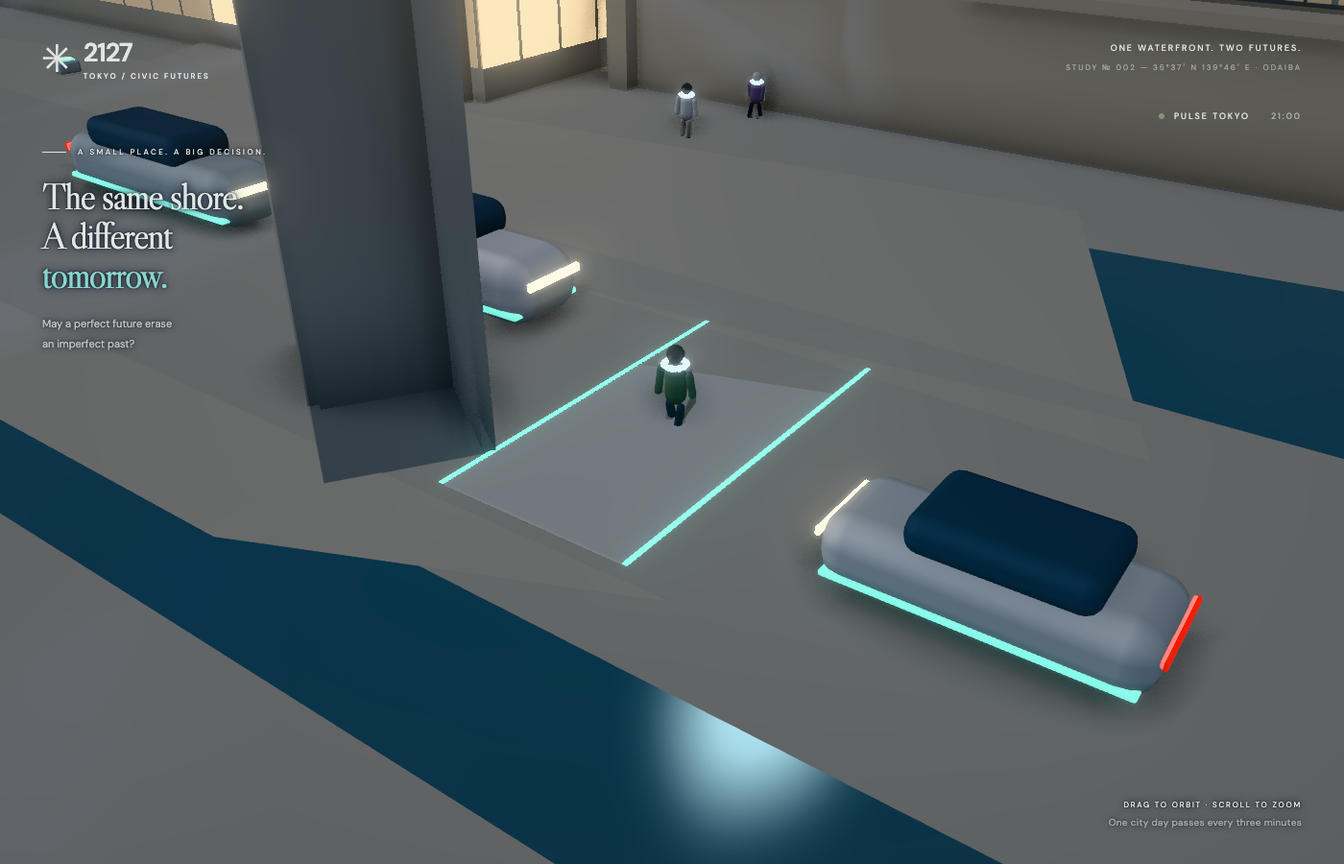
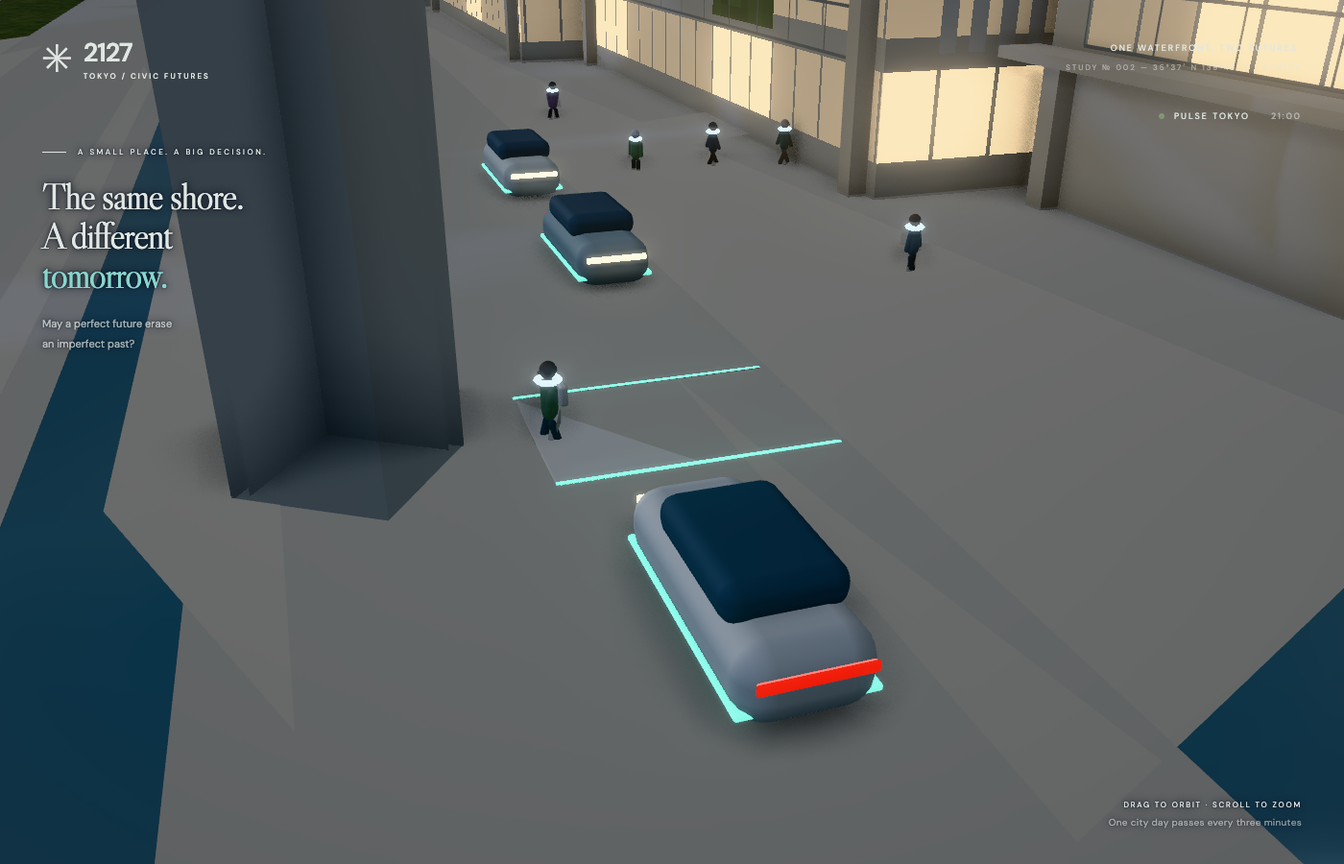
fix(mobility): move street lanes clear of guideway piers and Hilton
- Widen the guideway avenue's carriageway 1.6 m onto the paving slab
  and shift both lanes left, so the Yurikamome piers standing in the
  right half of the surveyed road stay clear of every car.
- End the guideway avenue before Hilton's chapel and podium, which
  cross the whole road; keep drop-off bays at their road positions.
- Ease seaside-avenue lanes 0.25 m away from Aqua City's wall.
- Test every lane's car body against the real city geometry.

diff --git a/src/mobility.ts b/src/mobility.ts
@@ -292,10 +292,14 @@ export const entranceJourneys=()=>entranceTrips;
 /** Published door-to-group journeys, for route/actor clearance checks. */
 export const forecourtVisits=()=>doorSpots.flatMap((spot,group)=>spot.visit?[{...spot.visit,group,at:spot.at,yaw:spot.yaw}]:[]);
 const PAVED=new Set(['sidewalk','plaza']);
-// Landmark pads overlap the avenues in places (Aqua City's north side), so forecourt walks also keep clear of every carriageway.
+// Landmark pads overlap the avenues in places (Aqua City's north side), so forecourt walks also keep 1.5 m clear of every carriageway
+// (`CARRIAGEWAY`) and of the surveyed road (the guideway avenue's pier strip included).
 let streetSamples:{p:T.Vector3;clear:number}[]|null=null;
-const offStreet=(p:T.Vector3)=>(streetSamples??=routes().streets.flatMap((c,r)=>c.getSpacedPoints(400).map(q=>({p:q,clear:r?5:4}))))
-  .every(s=>Math.hypot(s.p.x-p.x,s.p.z-p.z)>s.clear);
+const offStreet=(p:T.Vector3)=>(streetSamples??=routes().streets.flatMap((c,r)=>{
+  const {centre,half}=CARRIAGEWAY[r];
+  return [[0,ROAD_HALF[r]+1.5],[centre,half+1.5]].flatMap(([n,clear])=>c.getSpacedPoints(400).map((q,i,all)=>{
+    const t=all[Math.min(i+1,all.length-1)].clone().sub(all[Math.max(i-1,0)]).normalize();return {p:q.clone().add(new T.Vector3(t.z*n,0,-t.x*n)),clear};}));
+})).every(s=>Math.hypot(s.p.x-p.x,s.p.z-p.z)>s.clear);
 /** Finds ground-floor facade points by casting inward from all four sides of `model`'s bounds, and joins neighbouring doors on one face
  * with a short walk 4–10 m out across the paved pad (`ground`: the environment). Each walk is raycast clear of the building, and runs
  * from .6 m inside one door to .6 m inside the next, rounded at its corners, so people emerge from the facade rather than grow out of
@@ -429,7 +433,7 @@ export function streetCarPose(time:number,road:number,lane:number,car:number,car
  * `mobility` it also waits there until the lane beside the pull-out is clear). Cues: `signal` +1 indicates toward the kerb from SIGNAL m before easing in until it stops, -1 toward
  * the road from 3 s before pulling away until back in lane; `brake` lights while braking; `pitch` (rad, + nose down) dips the nose
  * under braking and lifts it pulling away. */
-export const DROP_OFF={road:1,lane:1,cars:[0,14],stops:[330,380],bay:3.5} as const;
+export const DROP_OFF={road:1,lane:1,cars:[0,14],stops:[223,273],bay:2.3} as const;
 const BRAKE=12,SHIFT=35,SIGNAL=30;
 export function dropOffPose(time:number,car:number,cars:number,length:number,stop:number) {
   return dropOffAt(laneTravel(time,DROP_OFF.road,DROP_OFF.lane,car,cars,length),length,stop);
@@ -455,17 +459,26 @@ function dropOffAt({x,lap,speed,span}:{x:number;lap:number;speed:number;span:num
  * behind each other (`mobility`). Both on the guideway avenue, where paving on each side is open 12 m out at body height (under the
  * guideway): south of Aqua City past the drop-off bays, and just before the junction mouth. The seaside avenue has no north footway (Aqua
  * City's wall stands 2.3 m from its centre line). */
-export const CROSSINGS=[{road:1,d:282,period:70},{road:1,d:480,period:83}] as const;
-/** Carriageway half-width per avenue (5 m and 7 m). */
+export const CROSSINGS=[{road:1,d:286,period:70},{road:1,d:480,period:83}] as const;
+/** Surveyed road half-width per avenue (5 m and 7 m). */
 export const ROAD_HALF=[2.5,3.5] as const;
+/** Where cars drive, in metres left of each avenue's route (`n`, up × tangent): the seaside avenue's lanes sit 0.25 m off centre in
+ * its 5 m road, away from Aqua City's wall (2.3 m right of the centre line); under the guideway the Yurikamome piers stand in the
+ * right half of the 7 m road about every 50 m, so its carriageway is widened 1.6 m to the left onto the paving slab and shifted
+ * clear of them (−5.1 … −0.5 m; piers reach 0.36 m left of the centre line where cars are drawn full size), the right half left to
+ * the piers. `lane`: each lane centre from the carriageway centre (Japan keeps
+ * left); car bodies keep ≥ 0.3 m from every solid (tests/odaiba.test.ts). */
+export const CARRIAGEWAY=[{centre:.25,half:2.25,lane:1.25},{centre:-2.8,half:2.3,lane:1.15}] as const;
+/** A lane's centre, metres along its own left (`up × travel direction`): lane 0 travels with the route, lane 1 against it. */
+export const laneOffset=(road:number,lane:number)=>{const {centre,lane:l}=CARRIAGEWAY[road];return lane?l-centre:centre+l;};
 /** The guideway avenue's junction mouth has no road surface in the environment (terrain shows between d 492 and 501): a strip of
  * the paving finish that covers the other avenues fills it (`loadOdaiba`). Left/right edge points (x, z) every metre, for the scene mesh and the road test. */
-export const ROAD_FILL={road:1,from:486,to:507,half:3.7} as const;
+export const ROAD_FILL={road:1,from:486,to:507,left:5.2,right:3.7} as const;
 export function roadFill() {
   const street=routes().streets[ROAD_FILL.road],length=street.getLength(),edges:[number,number][][]=[];
   for(let d=ROAD_FILL.from;d<=ROAD_FILL.to;d++){
     const p=street.getPointAt(d/length),t=street.getTangentAt(d/length);
-    edges.push([-1,1].map(s=>[p.x+t.z*s*ROAD_FILL.half,p.z-t.x*s*ROAD_FILL.half] as [number,number]));
+    edges.push([-ROAD_FILL.left,ROAD_FILL.right].map(n=>[p.x+t.z*n,p.z-t.x*n] as [number,number]));
   }
   return edges;
 }
@@ -664,9 +677,11 @@ export function mobility(scene:T.Scene) {
     }
   });benchFleet.flush();stools.flush();
   const crossAt=CROSSINGS.map(({road,d},k)=>{
-    place(path.streets[road],d/streetLength[road]);const half=ROAD_HALF[road];
+    place(path.streets[road],d/streetLength[road]);const {centre,half}=CARRIAGEWAY[road];
+    // `p`: the carriageway's centre at the crossing.
+    pose.position.add(new T.Vector3(tangent.z*centre,0,-tangent.x*centre));
     pose.scale.set(2*half+.6,1,1);crossBands.set(k,pose);pose.scale.set(1,1,1);
-    return {p:pose.position.clone(),t:tangent.clone(),half,kerb:half+.7,yaw:pose.rotation.y};
+    return {p:pose.position.clone(),t:tangent.clone(),half,kerb:half+.5,yaw:pose.rotation.y};
   });crossBands.flush();
   const stops=promenadeStops(walkLength.slice(0,2));
   const resting=pedestrians(scene,spots.length+FORECOURT_GROUPS*3,'resting-people');
@@ -944,7 +959,7 @@ export function mobility(scene:T.Scene) {
       const span=streetLength[r]+40,at={...laneAt(carT[slot],span),speed:8+3*hash(r*2+lane,14),span};
       const car=drop<0?{d:lane?streetLength[r]-at.x:at.x,visible:fadeEnds(at.x,streetLength[r]),bay:0,steer:0}:dropOffAt(at,streetLength[r],DROP_OFF.stops[drop]);
       place(path.streets[r],car.d/streetLength[r],lane===1);side.crossVectors(up,tangent).normalize();
-      pose.position.addScaledVector(side,(r?1.75:1.25)+car.bay*DROP_OFF.bay).y+=.1;pose.rotation.y+=car.steer;if(drop>=0)pose.rotation.x=(car as ReturnType<typeof dropOffPose>).pitch;
+      pose.position.addScaledVector(side,laneOffset(r,lane)+car.bay*DROP_OFF.bay).y+=.1;pose.rotation.y+=car.steer;if(drop>=0)pose.rotation.x=(car as ReturnType<typeof dropOffPose>).pitch;
       // Every seventh car is a 7 m van; traffic density and the commute rhythm thin the fleet (drop-off cars always run).
       // Human-driven cars give way to autonomous pods slot by slot as automation rises; standalone keeps the cars.
       const van=vanOf[slot]===1,density=drop<0?carGate(slot,state.traffic*.6+.5>hash(slot,18)&&rhythm.cars>hash(slot,22)):1;

diff --git a/tests/mobility.test.ts b/tests/mobility.test.ts
@@ -3,7 +3,7 @@ import { readFileSync } from 'node:fs';
 import { routes, podPose, boatPoses, HULL, WATER_PERIOD, BOATS as BOAT_COUNT, trainPose, TRAIN_SPEED, walkerPose, walkerRoute, walkerParty, doorwayPose, robotPose, collectorPose, ROBOT_HALT, HANDOFF, promenadeStops, RAIL_OUT, STOOL_FRONT, streetCarPose, STREET_GAP, dropOffPose, DROP_OFF, streetRhythm, promenadeBenches, BENCH_OUT, transferPose, dockMotion, guideStrength, aircraftSlot, podShare, automationActivity, CARS, CAR_GAP, TRAINS, WALKERS, TRANSFERS, PLATOON } from '../src/mobility.ts';
 import { changeSites, SPHERE_DOCK, INTERCHANGE } from '../src/layout.ts';
 import { laneBeaconSites } from '../src/waterRooms.ts';
-import { conversationPose, visitPose, entrancePose, servicePose, mobility, roadFill, CROSSINGS, ROAD_HALF } from '../src/mobility.ts';
+import { conversationPose, visitPose, entrancePose, servicePose, mobility, roadFill, CROSSINGS, CARRIAGEWAY, laneOffset } from '../src/mobility.ts';
 import * as T from 'three';
 import { presets } from '../src/presets.ts';
 
@@ -125,17 +125,19 @@ const inside = (tris: number[][], x: number, z: number) => tris.some(([ax, az, b
   const d1 = s(ax, az, bx, bz), d2 = s(bx, bz, cx, cz), d3 = s(cx, cz, ax, az);
   return !((d1 < 0 || d2 < 0 || d3 < 0) && (d1 > 0 || d2 > 0 || d3 > 0));
 });
-// The junction-mouth fill (scene strip of road material) closes the guideway avenue's only gap.
+// The junction-mouth fill (scene strip of the paving finish) closes the guideway avenue's only gap.
 const fill = roadFill();
 for (let i = 1; i < fill.length; i++) { const [[ax, az], [bx, bz]] = fill[i - 1], [[cx, cz], [dx, dz]] = fill[i]; roadTris.push([ax, az, cx, cz, bx, bz], [bx, bz, cx, cz, dx, dz]); }
 const onRoad = (x: number, z: number) => inside(roadTris, x, z);
+// Drivable: the surveyed road, or the paving slab the guideway avenue's carriageway is widened onto (no lawn, water or terrain).
+const drivable = (x: number, z: number) => onRoad(x, z) || inside(pavedTris, x, z);
 path.streets.forEach((street, r) => {
-  const length = street.getLength(), offset = r ? 1.75 : 1.25, cars = Math.round((length + 40) / STREET_GAP);
+  const length = street.getLength(), cars = Math.round((length + 40) / STREET_GAP);
   let missing = 0, samples = 0;
-  for (let d = 0; d <= length; d += 2) for (const side of [-1, 1]) {
-    const p = street.getPointAt(d / length), t = street.getTangentAt(d / length);
+  for (let d = 0; d <= length; d += 2) for (const lane of [0, 1]) {
+    const p = street.getPointAt(d / length), t = street.getTangentAt(d / length), n = lane ? -laneOffset(r, 1) : laneOffset(r, 0);
     // Both car edges (0.95 m either side of the lane centre).
-    for (const edge of [-.95, .95]) { samples++; if (!onRoad(p.x + t.z * side * (offset + edge), p.z - t.x * side * (offset + edge))) missing++; }
+    for (const edge of [-.95, .95]) { samples++; if (!drivable(p.x + t.z * (n + edge), p.z - t.x * (n + edge))) missing++; }
   }
   assert.equal(missing, 0, `street ${r}: ${missing}/${samples} car-edge samples off the road`);
   for (const lane of [0, 1]) for (let t = 0; t < 300; t += .5) {
@@ -158,7 +160,7 @@ path.streets.forEach((street, r) => {
       if (a.parked >= 0) {
         parkedSeen++;
         assert.ok(a.leaving >= 0 && (b.parked < 0 || Math.abs(a.d - b.d) < 1e-6), 'parked car moves');
-        const p = street.getPointAt(a.d / length), tan = street.getTangentAt(a.d / length).negate(), off = 1.75 + DROP_OFF.bay;
+        const p = street.getPointAt(a.d / length), tan = street.getTangentAt(a.d / length).negate(), off = laneOffset(DROP_OFF.road, DROP_OFF.lane) + DROP_OFF.bay;
         for (const [along, across] of [[-2.3, -.95], [-2.3, .95], [2.3, -.95], [2.3, .95], [0, 0]]) {
           const x = p.x + tan.z * (off + across) + tan.x * along, z = p.z - tan.x * (off + across) + tan.z * along;
           assert.ok(inside(pavedTris, x, z) && !onRoad(x, z), `drop-off bay ${k} corner off the paving at ${x.toFixed(0)}, ${z.toFixed(0)}`);
@@ -316,13 +318,13 @@ for (let ports = 0; ports <= 6; ports++) {
 assert.ok(guideStrength(.01, .99, true) > .9);
 assert.equal(guideStrength(.01, .99, false), 0);
 assert.equal(guideStrength(.5, 0, true), 0);
-// Crossings: the carriageway under the band is road; the kerbs and both footways walked 8 m up and down the avenue are paving.
+// Crossings: the carriageway under the band is drivable; the kerbs and both footways walked 8 m up and down the avenue are paving.
 for (const { road, d } of CROSSINGS) {
-  const street = path.streets[road], length = street.getLength(), half = ROAD_HALF[road];
-  const at = (along: number, a: number) => { const p = street.getPointAt((d + along) / length), t = street.getTangentAt((d + along) / length); return [p.x + t.z * a, p.z - t.x * a] as const; };
-  for (const along of [-.7, 0, .7]) for (let a = -half - .7; a <= half + .7; a += .25)
-    assert.ok(Math.abs(a) < half - .3 ? onRoad(...at(along, a)) : Math.abs(a) > half + .3 ? inside(pavedTris, ...at(along, a)) : true, `crossing ${road}/${d} off its surface at ${a}`);
-  for (let along = -8.7; along <= 8.7; along += .5) for (const a of [-half - .7, half + .7]) assert.ok(inside(pavedTris, ...at(along, a)), `crossing ${road}/${d} footway off the paving at ${along}`);
+  const street = path.streets[road], length = street.getLength(), { centre, half } = CARRIAGEWAY[road];
+  const at = (along: number, a: number) => { const p = street.getPointAt((d + along) / length), t = street.getTangentAt((d + along) / length); return [p.x + t.z * (centre + a), p.z - t.x * (centre + a)] as const; };
+  for (const along of [-.7, 0, .7]) for (let a = -half - .5; a <= half + .5; a += .25)
+    assert.ok(Math.abs(a) < half ? drivable(...at(along, a)) : inside(pavedTris, ...at(along, a)), `crossing ${road}/${d} off its surface at ${a}`);
+  for (let along = -8.7; along <= 8.7; along += .5) for (const a of [-half - .5, half + .5]) assert.ok(inside(pavedTris, ...at(along, a)), `crossing ${road}/${d} footway off the paving at ${along}`);
 }
 // Street traffic as simulated by the real actors over 15 min at 0.1 s (evening crowd and commute): cars never close within 1.5 m in a
 // lane or exceed 15 m/s, never stand between a crossing's stop line and its far side while residents cross, actually stop and queue

diff --git a/tests/odaiba.test.ts b/tests/odaiba.test.ts
@@ -6,7 +6,7 @@ import { GLTFLoader } from 'three/addons/loaders/GLTFLoader.js';
 import { placeOdaibaModel } from '../src/odaibaPlacement.ts';
 import { changeSites, skyBridges, inDistrict, DISTRICT } from '../src/layout.ts';
 import { heroCamera } from '../src/heroCamera.ts';
-import { pavilionFlight, plazaPose, routes, mobility, publishDoorways, publishEntrances, forecourtVisits, promenadeBenches, visitPose, entranceJourneys, entrancePose } from '../src/mobility.ts';
+import { pavilionFlight, plazaPose, routes, mobility, publishDoorways, publishEntrances, forecourtVisits, promenadeBenches, visitPose, entranceJourneys, entrancePose, laneOffset } from '../src/mobility.ts';
 import { presets } from '../src/presets.ts';
 import { civicCore } from '../src/civicCore.ts';
 import { bake } from '../src/cityRig.ts';
@@ -110,6 +110,29 @@ environment.traverse(object => {
   }
 });
 assert.ok(!environment.getObjectByName('ROADSIDE_TREE_INSTANCES'), 'Hidden roadside blockout is dropped');
+// Street cars pass through nothing: every lane's car body (±0.95 m, 0.5 and 1.2 m up, scaled as drawn by the 12 m fade at each
+// avenue end) along both avenues, probed 0.3 m in four directions against the landmarks, civic core and environment (guideway
+// piers, Hilton's chapel, Aqua City's walls). Faces are hit from either side for this check only.
+{
+  const solids = [environment, ...landmarks], sides = new Map<any, number>(), ground = /^(road|road_marking|sidewalk|plaza|landscape|water|service_area)$/;
+  for (const root of solids) root.traverse(o => { if (o instanceof Mesh && !Array.isArray(o.material)) { sides.set(o.material, o.material.side); o.material.side = 2; } });
+  environment.updateMatrixWorld(true);
+  const probe = new Raycaster(), dirs = [new Vector3(1, 0, 0), new Vector3(-1, 0, 0), new Vector3(0, 0, 1), new Vector3(0, 0, -1)], hits: string[] = [];
+  routes().streets.forEach((street, r) => {
+    const length = street.getLength();
+    for (let d = 0; d <= length; d += 1) for (const lane of [0, 1]) {
+      const p = street.getPointAt(d / length), t = street.getTangentAt(d / length), n = lane ? -laneOffset(r, 1) : laneOffset(r, 0);
+      const drawn = Math.min(1, d / 12, (length - d) / 12);
+      for (const across of [-.95, -.45, 0, .45, .95]) for (const y of [.5, 1.2]) for (const dir of dirs) {
+        probe.set(new Vector3(p.x + t.z * (n + across * drawn), y * drawn, p.z - t.x * (n + across * drawn)), dir); probe.far = .3;
+        const hit = probe.intersectObjects(solids, true).find(h => !ground.test(((h.object as Mesh).material as { name: string }).name));
+        if (hit) hits.push(`${r}|${lane}|${d}|${hit.object.name}|${hit.object.parent?.name}|${hit.point.y.toFixed(1)}|${hit.distance.toFixed(2)}`);
+      }
+    }
+  });
+  for (const [material, side] of sides) material.side = side;
+  assert.deepEqual([...new Set(hits.map(h => h.split('|').slice(0, 4).join('|')))].slice(0, 5), [], 'street cars pass through solid geometry');
+}
 const backdrop = new Box3().setFromObject(environment.getObjectByName('TERRAIN_LOW_DENSITY')!);
 assert.ok(environment.getObjectByName('CTX_south_east_unknown') && environment.getObjectByName('ROAD_MAJOR') && backdrop.max.z > 1300 && backdrop.max.x > 680, 'Odaiba backdrop ground, roads and massing continue past the district');
 const panels=contextFacades(environment);

diff --git a/src/layout.ts b/src/layout.ts
@@ -31,9 +31,10 @@ export const promenades: readonly (readonly P3[])[] = [
 ];
 // Street avenues, centrelines snapped to the environment's road surfaces (tests/mobility.test.ts): the 5 m seaside avenue north of Aqua
 // City and DECKS, and the 7 m avenue under the Yurikamome guideway. Neither crosses the other, so their street cars need no signals.
+// The guideway avenue ends at (-255.6, 88.6), short of Hilton's chapel and podium, which stand across its surveyed road beyond.
 export const streets: readonly (readonly P3[])[] = [
   [[-207,0,-86.4],[-108.9,0,-151.5],[-10.8,0,-216.6],[87,0,-282.1],[168.4,0,-336.7],[217.5,0,-369.3]],
-  [[259.8,0,-256],[175.9,0,-199.5],[108.9,0,-154.3],[24.6,0,-98.4],[-59.9,0,-42.9],[-127.5,0,1.5],[-160.6,0,24],[-244,0,80.9],[-328.1,0,136.7],[-344.7,0,148.2]],
+  [[259.8,0,-256],[175.9,0,-199.5],[108.9,0,-154.3],[24.6,0,-98.4],[-59.9,0,-42.9],[-127.5,0,1.5],[-160.6,0,24],[-244,0,80.9],[-255.6,0,88.6]],
 ];
 // Top of the Fuji TV sphere (centre about -18, 107, 23; radius 22): the air-taxi berth.
 export const SPHERE_DOCK: P3 = [-18,131,23];

diff --git a/docs/PROJECT.md b/docs/PROJECT.md
@@ -72,7 +72,7 @@ Standalone uses day-cycle activity and does not create the v2 district layer. `?
 
 The district layer uses bounded preallocated slots: 17 climate bays, 11 service bays, six water rooms, ten courts, ten towers and 26 low pods, plus published roof carriers. Complementary covers preserve complete future identities; mixed composes hybrids. Cross-Meter agreement enables extra facilities. Four uint32 `slotSeeds` hash the full ordered active run history; neutral votes do not shuffle direction, and Undo excludes revoked proposals. Full-history hashing is O(guests) per view; optimize only if measured cost warrants it. Site/design footprints stay fixed while selected slot distribution can differ by history.
 
-Automation changes walkers 400/260/120, pods 12/18/24 and circulating aircraft 2/16/30 at low/mixed/high, and turns street cars into autonomous street pods (all cars / about half / all pods, with the same amount of traffic); capacities exceed visible counts. Air tiers ([layout](../src/layout.ts)): the regional district loop/sphere approach at 160–170 m, the city shore lane (closed loop offshore, inbound leg 80 m, outbound 100 m) and the service quadrotors at 30–45 m. Aircraft slots 0–9 alternate loops evenly; slots 10+ fly as wingmen 34 m behind, so platoons appear only as automation rises. Each slot is a human-led winged craft or an autonomous pod; craft switch midway between settled levels (pods about 0/15/50/85/100 % for ports 0–1/2/3/4/5–6), berth shuttles become pods above mixed. Corridors keep a faint fixed guide line; four shore-lane beacon masts (58 m) stand clear of rooms and boat routes. The shore interchange in front of Aqua City has a 56 m pier, boat head and a 38 m arrival mast with glass lift; its boat and air shuttle reuse the 40 s `dockMotion` cycle (offset 20 s) and pivot over 4 s when leaving, as does the sphere shuttle. Walkers move in parties (per six slots: one alone, a pair, a trio with a child); four of five parties walk the promenades, every fifth a mid-level/garden skyway deck. Each makes one-way trips at their own pace (0.9–1.45 m/s; a third of lone walkers jog, in the outer lane so they pass parties), followers loosely ahead or behind, fading in and out at the route ends as if entering a building, rests out of sight, and picks a fresh direction. Lanes are right of travel, so the two directions keep to their own sides; parties walk at most 0.6 m wide (a pair abreast; a trio's child beside the leader, the other adult behind; single file on decks), and `passingLanes` makes everyone sharing a path sidestep to pass or meet with 0.65 m between shoulders, queueing up to 2.5 m where a crowd leaves no room; whoever passes a fixed mover (a halted robot, its collector, a stopper) goes round the side with room. Feet follow ground actually covered (trip distance plus the solver's along offset), so queued people stop stepping, and a sidestep turns the body toward its actual path. Two in five non-joggers stop at a viewpoint facing the bay. On the promenades each such party has its own spot (`promenadeStops`): lone walkers veer out of the lane to a backless one-seat stool between benches and sit 70 s, parties line up at a free rail spot for 40 s, then rejoin their lane; they stop only on trips with the sea on their right, so they never cross the oncoming lane; leftover stoppers and deck walkers walk on. Up to 120 doorway walkers (scaled like the promenade walkers) step out from 0.6 m inside one ground-floor door (so they emerge from the facade rather than grow out of the paving), cross the paved forecourt 4–10 m out on a corner-rounded curve (keeping right and making way like promenade walkers; each door on one trip, trips 3 m apart, one robot per trip) and go in at the next: `publishDoorways` raycasts each loaded landmark's facades and forecourt (sidewalk/plaza only). Street cars (4.6 m human-driven cars, every seventh a 7 m van; head/tail lights at night; each slot becomes a rounded autonomous street pod or cargo pod by the aircraft's `podShare` thresholds as automation rises, standalone keeps cars) drive on the left on two avenues snapped to the environment's road surface ([layout](../src/layout.ts) `streets`: seaside avenue north of Aqua City/DECKS, avenue under the guideway), each never ahead of its slot on one speed per lane with irregular gaps, fading at the avenue ends; density follows `traffic`. Each slot is simulated frame to frame: it keeps 2 m + 0.5 s behind the car ahead round the loop, brakes for a requested crossing it can still stop for (≤ 3 m/s² profile, brake lamps lit while slowing or queued), then catches up (≤ +30 %, ≤ 14 m/s); first frame, jumps and snapshots put every car back on its slot. Two signal-free shared-space crossings on the guideway avenue (`CROSSINGS`, d 282 and 480; pale band, mint edge lines while requested): residents walk 8 m along the footway to the kerb, wait until every approaching car has stopped or passed, cross, and walk on along the far footway. The seaside avenue has none: Aqua City's wall stands 2.3 m from its centre line. `roadFill` lays a strip of the paving finish over the guideway avenue's junction mouth (d 486–507), which had only terrain. The two avenues do not cross each other, so there are no signals (2127 cars need none). Two cars on the guideway avenue's westbound lane make kerbside drop-offs at paved bays south of Aqua City: each eases into its bay, parks about one lane lap, and waits indicating until the lane behind and beside the pull-out is clear (kerb-side amber indicators from 30 m before easing in, a brake lamp and slight nose dip while stopping, road-side indicators from 3 s before pulling away with a slight lift); a passenger walks between car and the nearest landmark door. The promenades are a 7.2 m paved boardwalk (top at walker level, lawn 0.2–0.35 m below). Benches every 24 m, 2.75 m out facing the sea (walker centres stay ≤ 2.1 m out, so shoulders clear the backrest; feet clear the lit edge), seat two people, with a couple standing at the rail between benches; up to 20 forecourts hold standing groups of two or three, and 14 delivery robots (0.7 m/s) run the doorway forecourts, halting 8 s just outside the next door while a collector steps out to meet them, then both go in. People swing legs and arms in a vertex shader (`gait` instance attribute, no extra draws; shadows and GTAO use the rest pose) and a quarter carry a backpack, a fifth a shoulder bag. `streetRhythm(hour)` thins each group through the day by a stable per-person hash: evening crowds, joggers at dawn/dusk, strollers toward sunset, children by day, sitters from late morning, robots at night, cars at the commutes; without an hour (tests, standalone callers) everyone stays. DEV `?review=street` frames a promenade bench and the seaside avenue from 40 m (orbit may close to 30 m in that mode only; `&cam=x,y,z` moves that camera). Sixteen transfers (independent of Meters) disembark/queue/board on the boat cycle. Every person wears a collar light lit at night. Guideway trains run one way on each of the two Yurikamome beams (`guidewayTracks`, traced from the environment: south-west on the centreline beam, north-east on the beam 4.6 m beside it, keeping left), evenly spaced at 12 m/s and fading beyond the district, so they never meet or reverse. Boats (`boatPoses`) have commensurate periods (loop taxis 20 s apart on a loop whose return leg runs 28 m seaward of the outbound, cruisers 40 s per run, interchange boat 40 s, ferry 320 s), and their phases were searched so 2.5 m of water stays around every hull over the 320 s period. Base water fleets, sweep cars and berth shuttle are independent. P12 adds up to 120 crowd slots for eligible courts (seed-zero 0/24/96), 11 service quadrotors with staggered 48 s docking cycles, and slow night accent rhythms. These are authored motion, not physics/pathfinding/occupancy simulation. Route/bounds checks are in [mobility tests](../tests/mobility.test.ts) and [Odaiba tests](../tests/odaiba.test.ts); detailed accepted limits in [Meter handoff](handoffs/archive/meter-variety.md).
+Automation changes walkers 400/260/120, pods 12/18/24 and circulating aircraft 2/16/30 at low/mixed/high, and turns street cars into autonomous street pods (all cars / about half / all pods, with the same amount of traffic); capacities exceed visible counts. Air tiers ([layout](../src/layout.ts)): the regional district loop/sphere approach at 160–170 m, the city shore lane (closed loop offshore, inbound leg 80 m, outbound 100 m) and the service quadrotors at 30–45 m. Aircraft slots 0–9 alternate loops evenly; slots 10+ fly as wingmen 34 m behind, so platoons appear only as automation rises. Each slot is a human-led winged craft or an autonomous pod; craft switch midway between settled levels (pods about 0/15/50/85/100 % for ports 0–1/2/3/4/5–6), berth shuttles become pods above mixed. Corridors keep a faint fixed guide line; four shore-lane beacon masts (58 m) stand clear of rooms and boat routes. The shore interchange in front of Aqua City has a 56 m pier, boat head and a 38 m arrival mast with glass lift; its boat and air shuttle reuse the 40 s `dockMotion` cycle (offset 20 s) and pivot over 4 s when leaving, as does the sphere shuttle. Walkers move in parties (per six slots: one alone, a pair, a trio with a child); four of five parties walk the promenades, every fifth a mid-level/garden skyway deck. Each makes one-way trips at their own pace (0.9–1.45 m/s; a third of lone walkers jog, in the outer lane so they pass parties), followers loosely ahead or behind, fading in and out at the route ends as if entering a building, rests out of sight, and picks a fresh direction. Lanes are right of travel, so the two directions keep to their own sides; parties walk at most 0.6 m wide (a pair abreast; a trio's child beside the leader, the other adult behind; single file on decks), and `passingLanes` makes everyone sharing a path sidestep to pass or meet with 0.65 m between shoulders, queueing up to 2.5 m where a crowd leaves no room; whoever passes a fixed mover (a halted robot, its collector, a stopper) goes round the side with room. Feet follow ground actually covered (trip distance plus the solver's along offset), so queued people stop stepping, and a sidestep turns the body toward its actual path. Two in five non-joggers stop at a viewpoint facing the bay. On the promenades each such party has its own spot (`promenadeStops`): lone walkers veer out of the lane to a backless one-seat stool between benches and sit 70 s, parties line up at a free rail spot for 40 s, then rejoin their lane; they stop only on trips with the sea on their right, so they never cross the oncoming lane; leftover stoppers and deck walkers walk on. Up to 120 doorway walkers (scaled like the promenade walkers) step out from 0.6 m inside one ground-floor door (so they emerge from the facade rather than grow out of the paving), cross the paved forecourt 4–10 m out on a corner-rounded curve (keeping right and making way like promenade walkers; each door on one trip, trips 3 m apart, one robot per trip) and go in at the next: `publishDoorways` raycasts each loaded landmark's facades and forecourt (sidewalk/plaza only). Street cars (4.6 m human-driven cars, every seventh a 7 m van; head/tail lights at night; each slot becomes a rounded autonomous street pod or cargo pod by the aircraft's `podShare` thresholds as automation rises, standalone keeps cars) drive on the left on two avenues snapped to the environment's road surface ([layout](../src/layout.ts) `streets`: seaside avenue north of Aqua City/DECKS, avenue under the guideway, which ends at d 620 short of Hilton's chapel and podium); `CARRIAGEWAY` places the lanes: the seaside lanes 0.25 m off centre away from Aqua City's wall, and under the guideway a carriageway widened 1.6 m left onto the paving slab (−5.1 … −0.5 m) so the Yurikamome piers, which stand in the right half of the surveyed road, stay ≥ 0.34 m clear of full-size cars, each never ahead of its slot on one speed per lane with irregular gaps, fading at the avenue ends; density follows `traffic`. Each slot is simulated frame to frame: it keeps 2 m + 0.5 s behind the car ahead round the loop, brakes for a requested crossing it can still stop for (≤ 3 m/s² profile, brake lamps lit while slowing or queued), then catches up (≤ +30 %, ≤ 14 m/s); first frame, jumps and snapshots put every car back on its slot. Two signal-free shared-space crossings on the guideway avenue (`CROSSINGS`, d 286 and 480; pale band, mint edge lines while requested): residents walk 8 m along the footway to the kerb, wait until every approaching car has stopped or passed, cross, and walk on along the far footway. The seaside avenue has none: Aqua City's wall stands 2.3 m from its centre line. `roadFill` lays a strip of the paving finish over the guideway avenue's junction mouth (d 486–507), which had only terrain. The two avenues do not cross each other, so there are no signals (2127 cars need none). Two cars on the guideway avenue's westbound lane make kerbside drop-offs at paved bays south of Aqua City: each eases into its bay, parks about one lane lap, and waits indicating until the lane behind and beside the pull-out is clear (kerb-side amber indicators from 30 m before easing in, a brake lamp and slight nose dip while stopping, road-side indicators from 3 s before pulling away with a slight lift); a passenger walks between car and the nearest landmark door. The promenades are a 7.2 m paved boardwalk (top at walker level, lawn 0.2–0.35 m below). Benches every 24 m, 2.75 m out facing the sea (walker centres stay ≤ 2.1 m out, so shoulders clear the backrest; feet clear the lit edge), seat two people, with a couple standing at the rail between benches; up to 20 forecourts hold standing groups of two or three, and 14 delivery robots (0.7 m/s) run the doorway forecourts, halting 8 s just outside the next door while a collector steps out to meet them, then both go in. People swing legs and arms in a vertex shader (`gait` instance attribute, no extra draws; shadows and GTAO use the rest pose) and a quarter carry a backpack, a fifth a shoulder bag. `streetRhythm(hour)` thins each group through the day by a stable per-person hash: evening crowds, joggers at dawn/dusk, strollers toward sunset, children by day, sitters from late morning, robots at night, cars at the commutes; without an hour (tests, standalone callers) everyone stays. DEV `?review=street` frames a promenade bench and the seaside avenue from 40 m (orbit may close to 30 m in that mode only; `&cam=x,y,z` moves that camera). Sixteen transfers (independent of Meters) disembark/queue/board on the boat cycle. Every person wears a collar light lit at night. Guideway trains run one way on each of the two Yurikamome beams (`guidewayTracks`, traced from the environment: south-west on the centreline beam, north-east on the beam 4.6 m beside it, keeping left), evenly spaced at 12 m/s and fading beyond the district, so they never meet or reverse. Boats (`boatPoses`) have commensurate periods (loop taxis 20 s apart on a loop whose return leg runs 28 m seaward of the outbound, cruisers 40 s per run, interchange boat 40 s, ferry 320 s), and their phases were searched so 2.5 m of water stays around every hull over the 320 s period. Base water fleets, sweep cars and berth shuttle are independent. P12 adds up to 120 crowd slots for eligible courts (seed-zero 0/24/96), 11 service quadrotors with staggered 48 s docking cycles, and slow night accent rhythms. These are authored motion, not physics/pathfinding/occupancy simulation. Route/bounds checks are in [mobility tests](../tests/mobility.test.ts) and [Odaiba tests](../tests/odaiba.test.ts); detailed accepted limits in [Meter handoff](handoffs/archive/meter-variety.md).
 
 Live targets ease over 3 s; changed slots emit faint Meter-colour rings and each changed Meter's site emits bright rings plus a light shaft (two waves, about 4.2 s; site-only shafts since 2026-10-04). Snapshot/reset/Undo/reconnect/reduced motion settle immediately and clear pulses/queued displays. No-op events do not replay. Late roof/asset publication must adopt the latest target and seed.
 

diff --git a/docs/handoffs/street-life.md b/docs/handoffs/street-life.md
@@ -1,7 +1,7 @@
 # street-life — Pedestrian and street-traffic polish
 
 - Owner: cc100053
-- Status: IN PROGRESS (round 11 items 2, 3, 5 implemented on the feature branch, not merged by user request; exhibition-machine FPS open)
+- Status: IN PROGRESS (rounds 11–12 on the feature branch, not merged by user request; exhibition-machine FPS open)
 - Branch: feat/pedestrian-traffic-life
 - Base commit: 9476fd8b82da523d6f7acee6f1893e5028fb35a0
 - Last verified commit: cdea651d85b2e2573be5658cd583b1894e9caa65 (integrated main: root tests/build/diff-check PASS; tree identical to browser-verified round 10)
@@ -356,3 +356,26 @@ Not proposed: signals, pathfinding, new dependencies, interiors, population infe
   284–287, 358, 499, 559–628, 695–697) and solids sit in both lanes at d 639–670 (Hilton), so cars pass through them; Aqua City's
   wall is 0.1 m from seaside-avenue lane 1 car edges. Crossings are not in the hero view (geometry allows none there).
 - Next: user review, then merge with validation; re-measure FPS; consider re-routing lane offsets around the guideway piers.
+
+### Round 12 — lanes moved clear of piers and Hilton (2026-10-07; feature branch only, not merged)
+
+- User chose widening the guideway avenue's carriageway (asked "可唔可以擴闊車道？", then approved the plan). Start `f06dc7b`, clean,
+  0/0 with upstream, 1 ahead of `origin/main`.
+- Evidence (Node, real GLBs, BVH probes): the Yurikamome piers stand in the right half of the 7 m surveyed road about every 50 m,
+  reaching up to 0.5 m left of the centre line (0.36 m where cars are full size); Hilton's curved podium/chapel cross the whole road
+  at d 627–662; the strip left of the road is paving slab (except the junction mouth); beyond the piers is lawn.
+- `CARRIAGEWAY`/`laneOffset`: guideway avenue lanes at −1.65/−3.95 m (carriageway −5.1 … −0.5, widened 1.6 m onto paving), seaside
+  avenue lanes 0.25 m off centre (Aqua City's wall 2.3 m right of its centre line). Guideway avenue ends at d 620 (layout point
+  (−255.6, 88.6)); drop-off stops 223/273 (same road positions), bay 2.3 m beyond the lane; crossing d 282 → 286 so both
+  footways stay on paving; kerbs 0.5 m beyond the carriageway; junction fill −5.2 … +3.7 m; forecourt walks keep 1.5 m off both
+  the carriageway and the surveyed road.
+- Checks: new `odaiba.test.ts` sweep (every lane, car body ±0.95 m at 0.5/1.2 m scaled by the end fade, 0.3 m probes in four
+  directions, faces both sides) — 0 hits; fails on the old offsets. Mobility tests now require car edges on road or paving, the
+  crossing surfaces and the bays at the new offsets. Scratch 2 h traffic stress: min gap 2.00 m, 0 crossing conflicts, max lag
+  123 m, 147 crossings. Root `npm test` PASS, `npm run build` PASS, `git diff --check` PASS.
+- Browser (headed Chromium 151, 1400×900, Vite DEV :5174 started from `.claude/launch.json` `root-5174`, devtools-hook camera):
+  [pier clearance](../../artifacts/street-crossings/pier-clearance.png), [day crossing](../../artifacts/street-crossings/crossing-day.png),
+  [night crossing](../../artifacts/street-crossings/crossing-night.png), [junction](../../artifacts/street-crossings/junction-crossing.png)
+  (replacing round 11's captures). Console: the missing `/favicon.ico` 404, and once `TypeError: Failed to fetch` in the three.js
+  loader chunk (also seen once in round 10; not traced). FPS NOT re-measured.
+- Next: user review, then merge with validation and FPS on the exhibition machine.

diff --git a/docs/VALIDATION.md b/docs/VALIDATION.md
@@ -62,7 +62,7 @@ outbound/stay/return/indoor timing. `odaiba.test.ts` publishes real landmark doo
 visitor curves on actual paving and clear of buildings/sites, then samples each journey against actual people/robots for 240 s
 at .25 s in low/mixed/high, hours 12/21. Every journey must actually be drawn in all six cases; seated matrices and folded legs
 remain fixed. Repeat visual checks with companion gaze/hand gestures, visitor arrival/chat/turn/return, and held day/dusk/night.
-The same loop asserts doorway people (0.62 m) and robots (0.85 m) never overlap and that no promenade walker, and at most 2 % of slow doorway frames (tight forecourt corners), strides in place; `districtMeters.test.ts` checks street cars → pods at low/mixed/high with unchanged traffic. `mobility.test.ts` runs the real traffic simulation 15 min (evening) with drawn bodies and 30 min (morning): lane bumper gaps > 1.5 m, ≤ 15 m/s, no car between stop line and far side while residents cross, crossers outside every drawn car footprint, real stops/queues/brake lamps, lag < 200 m, drop-off cars still parking; crossing bands on road and footways on paving, and both avenues' car edges fully on road with the junction fill.
+The same loop asserts doorway people (0.62 m) and robots (0.85 m) never overlap and that no promenade walker, and at most 2 % of slow doorway frames (tight forecourt corners), strides in place; `districtMeters.test.ts` checks street cars → pods at low/mixed/high with unchanged traffic. `mobility.test.ts` runs the real traffic simulation 15 min (evening) with drawn bodies and 30 min (morning): lane bumper gaps > 1.5 m, ≤ 15 m/s, no car between stop line and far side while residents cross, crossers outside every drawn car footprint, real stops/queues/brake lamps, lag < 200 m, drop-off cars still parking; crossing bands on road and footways on paving, and both avenues' car edges on road or paving with the junction fill. `odaiba.test.ts` sweeps every lane's car body (as drawn, ends faded) along both avenues against the real landmarks, civic core and environment and requires 0.3 m clearance (fails with the old lane positions).
 Dated results and any integration limits belong in the [street-life handoff](handoffs/street-life.md).
 
 Building interactions (round 9, 2026-10-06): `mobility.test.ts` checks arrival/wait/exit/greeting/departure/indoor stages,
